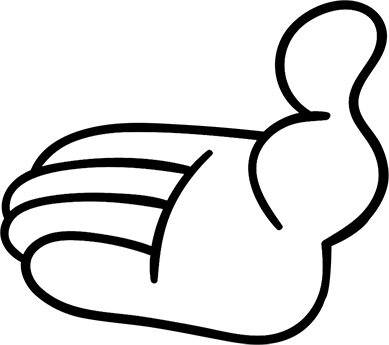
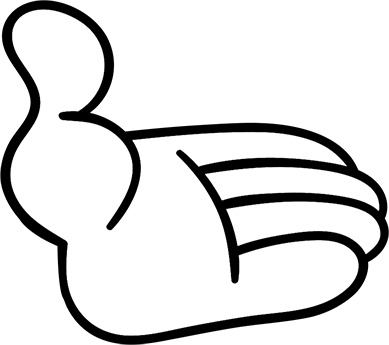
flipped images based on player/enemy, game functions with 2players, game resets @5sec after match

Changed region(s): [[0.0, 0.0, 1.0, 1.0]]

diff --git a/assets/javascript/index.js b/assets/javascript/index.js
@@ -9,11 +9,12 @@ $(document).ready(function() {
 	let enemyHand;
 
 	let winner;
-
 	let playerX;
 
 	let p1Active;
 	let p2Active;
+
+	let intervalID;
 
 	// Firebase configuration
 	let config = {
@@ -45,24 +46,28 @@ $(document).ready(function() {
 			p2Active = sv.player2Active;
 			p1Hand = sv.player1Hand;
 			p2Hand = sv.player2Hand;
+			p1Wins = sv.player1Wins;
+			p2Wins = sv.player2Wins;
+			p1Loss = sv.player1Loss;
+			p2Loss = sv.player2Loss;
 
 			//Both players have picked a hand now.
 			if (p1Hand !== "undefined" && p2Hand !== "undefined") {
 				//Display Player hand
 				$(`.player`).html(
-					`<img src="./assets/img/${chosenHand}.png"><span>${chosenHand}</span>`
+					`<img id="player-hand" src="./assets/img/${chosenHand}.png"><span>${chosenHand}</span>`
 				);
 
 				//Display enemy hand
 				if (playerX === "player1") {
 					enemyHand = p2Hand;
 					$(`.enemy`).html(
-						`<img src="./assets/img/${p2Hand}.png"><span>${p2Hand}</span>`
+						`<img id="enemy-hand" src="./assets/img/${p2Hand}.png"><span>${p2Hand}</span>`
 					);
 				} else if (playerX === "player2") {
 					enemyHand = p1Hand;
 					$(`.enemy`).html(
-						`<img src="./assets/img/${p1Hand}.png"><span>${p1Hand}</span>`
+						`<img id="enemy-hand" src="./assets/img/${p1Hand}.png"><span>${p1Hand}</span>`
 					);
 				}
 
@@ -74,7 +79,7 @@ $(document).ready(function() {
 				//2 Active players are present.
 				//Start game, both players are present.
 				console.log("2 PLAYERSSSS");
-				checkReady(); //RUNS EVERYTIME DB UPDATES A NEW VALUE
+				checkReady(); //RUNS EVERYTIME DB UPDATES A NEW VALUE, and 2P are present.
 			} else if (sv.player1Active === "true") {
 				// ** PLAYER2 LEFT, OR HAS NOT CONNECTED **
 				//Player 1 is the only player who is active,  Build Lobby.
@@ -88,6 +93,21 @@ $(document).ready(function() {
 			console.log("Read from DB Failed: " + errorObject.code);
 		}
 	);
+
+	const newGame = function() {
+		database.ref().update({
+			[`${playerX}Hand`]: "undefined",
+			[`${playerX}Wins`]: 0,
+			[`${playerX}Loss`]: 0
+		});
+		lobby();
+	};
+
+	const updateScores = function() {
+		database.ref().update({
+			[`${playerX}Wins`]: 0
+		});
+	};
 
 	//Function Declarations
 
@@ -115,11 +135,21 @@ $(document).ready(function() {
 				`<div class="announcement"><h5 class="message">ENEMY WON</h5></div>`
 			);
 		}
-		return winner;
+		let timer = 5;
+		intervalID = setInterval(function() {
+			if (timer <= 0) {
+				//timer is 0, clear Interval, log stats, start new game.
+				clearInterval(intervalID);
+				newGame();
+			}
+			//Countdown on DOM.
+			console.log(timer);
+			timer--;
+		}, 1000);
 	};
 
 	const lobby = function() {
-		$(".container").append(`
+		$(".container").html(`
 	<div id="lobby">
 		<div id="player">
 			<form>
@@ -140,6 +170,7 @@ $(document).ready(function() {
 			<h4 class="enemy-name">...</h4>
 		</div>
 	</div>`);
+		checkReady();
 	};
 
 	const checkReady = function() {
@@ -172,7 +203,7 @@ $(document).ready(function() {
 	//Start Button
 	$("#start").on("click", function(e) {
 		e.preventDefault();
-		input = $("#name").val();
+		let input = $("#name").val();
 
 		if (input !== true) {
 			$("#name").attr("placeholder", "..you got a name?");

diff --git a/assets/css/style.css b/assets/css/style.css
@@ -18,7 +18,6 @@ html {
 
 #lobby {
 	height: 50%;
-	margin-top: 2em;
 	display: flex;
 	flex-direction: row;
 }
@@ -84,5 +83,11 @@ button:disabled {
 }
 
 .message {
+	margin-top: 1.5em;
 	width: 100%;
+}
+
+#enemy-hand {
+	-webkit-transform: scaleX(-1);
+	transform: scaleX(-1);
 }
